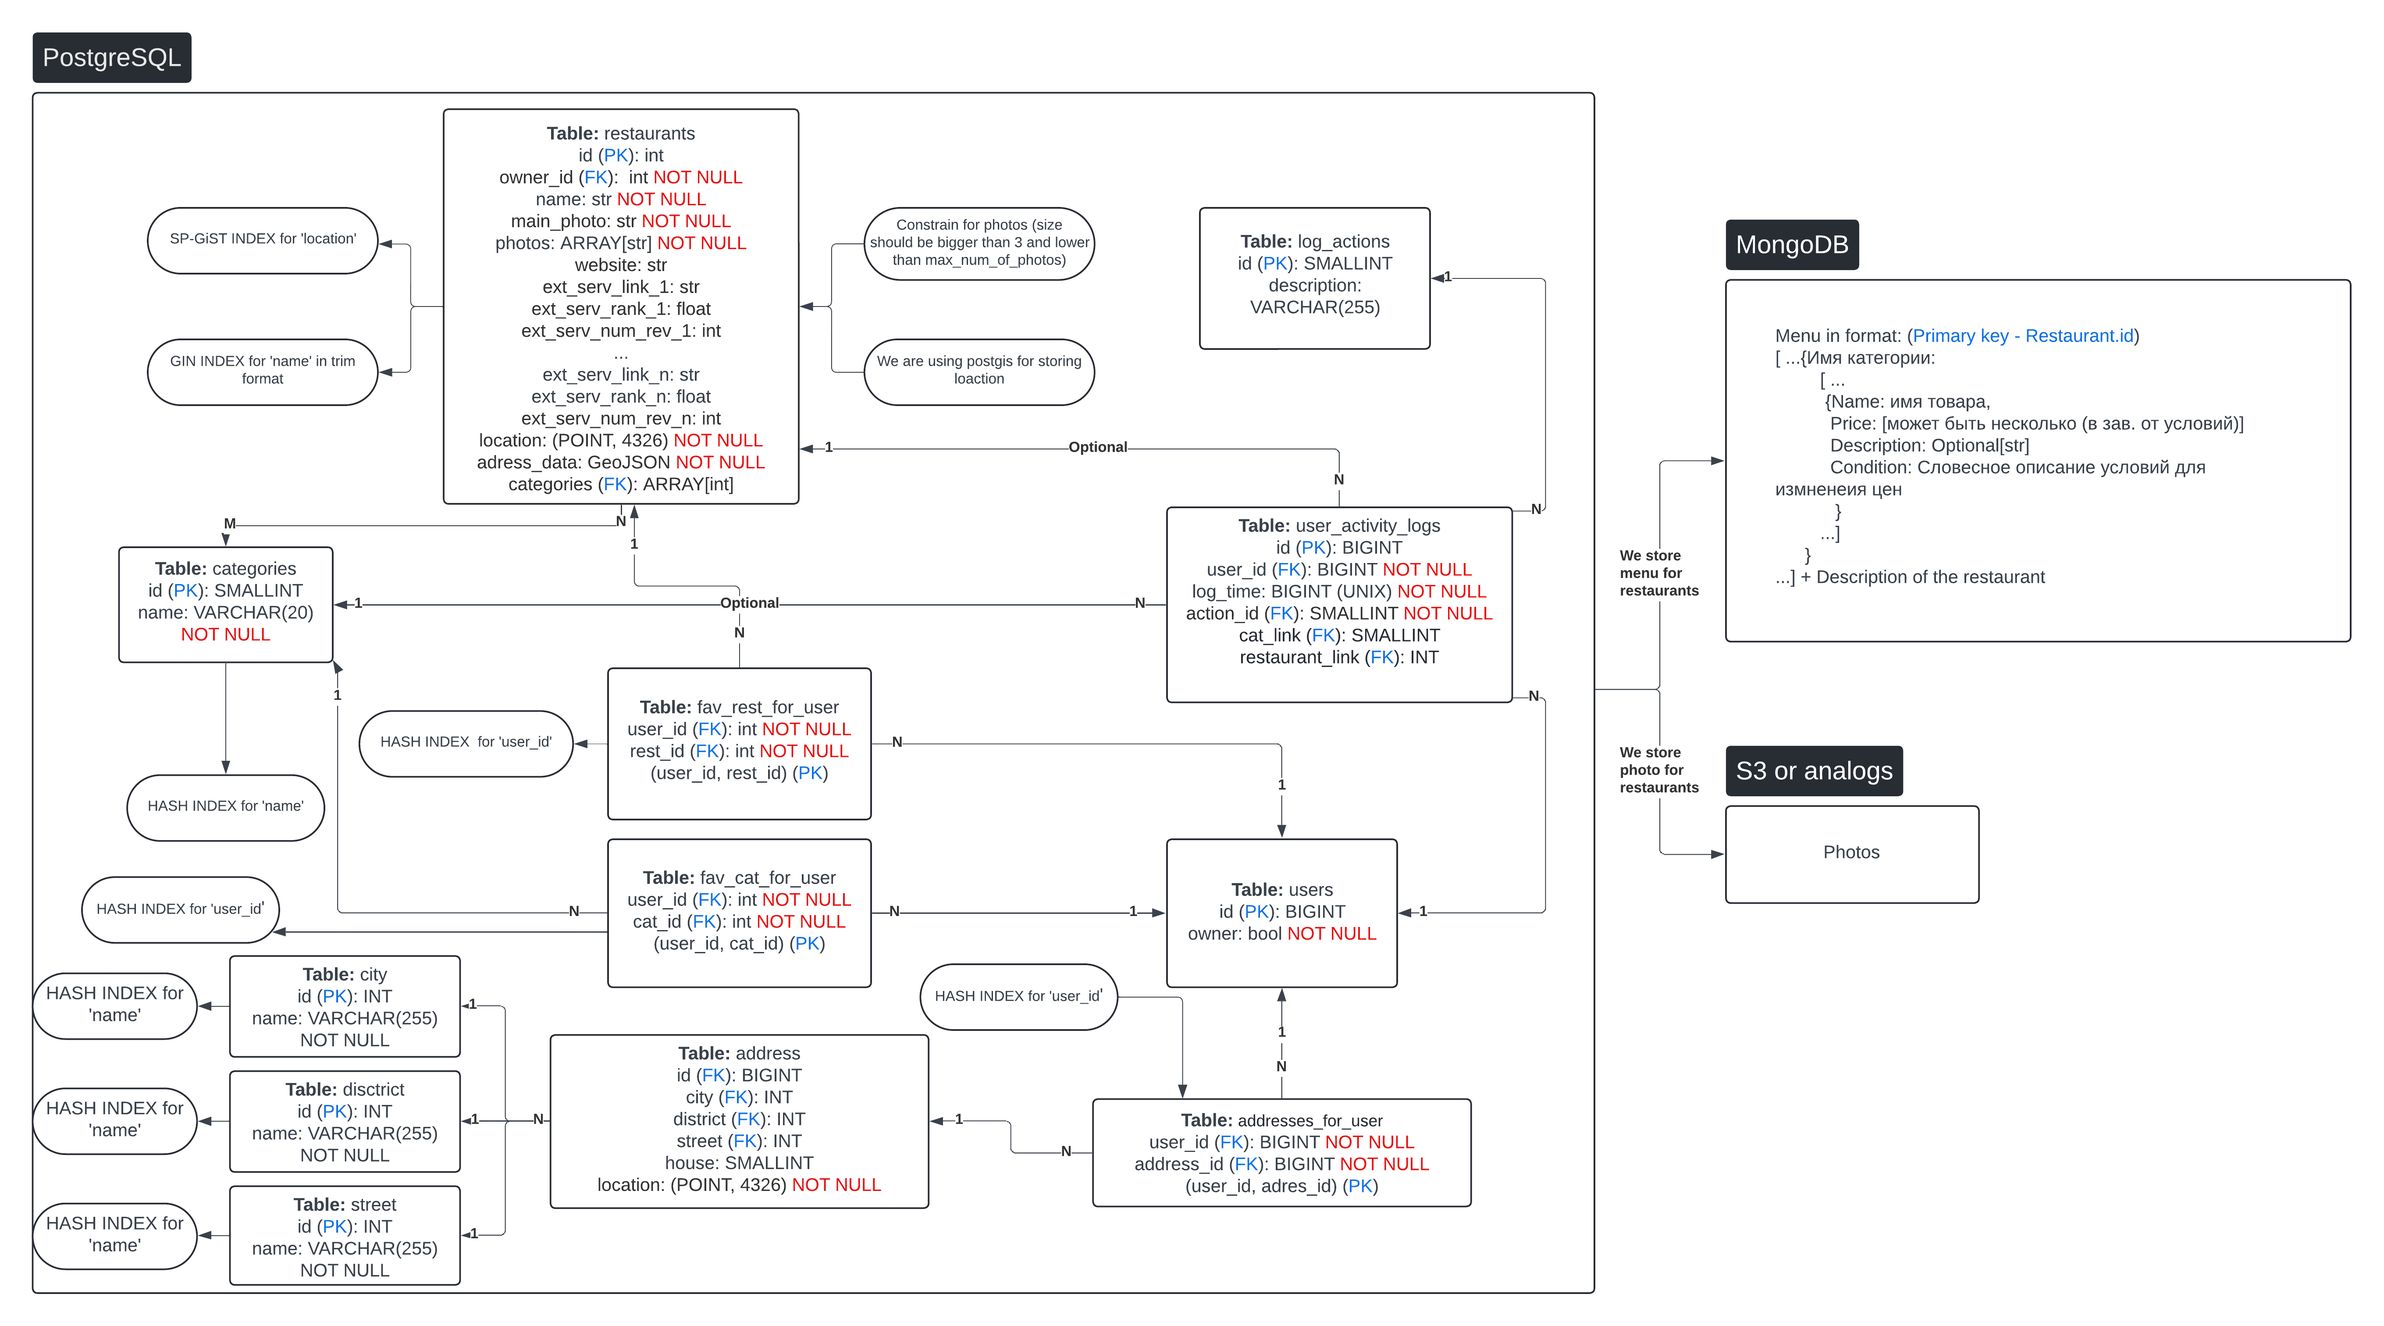
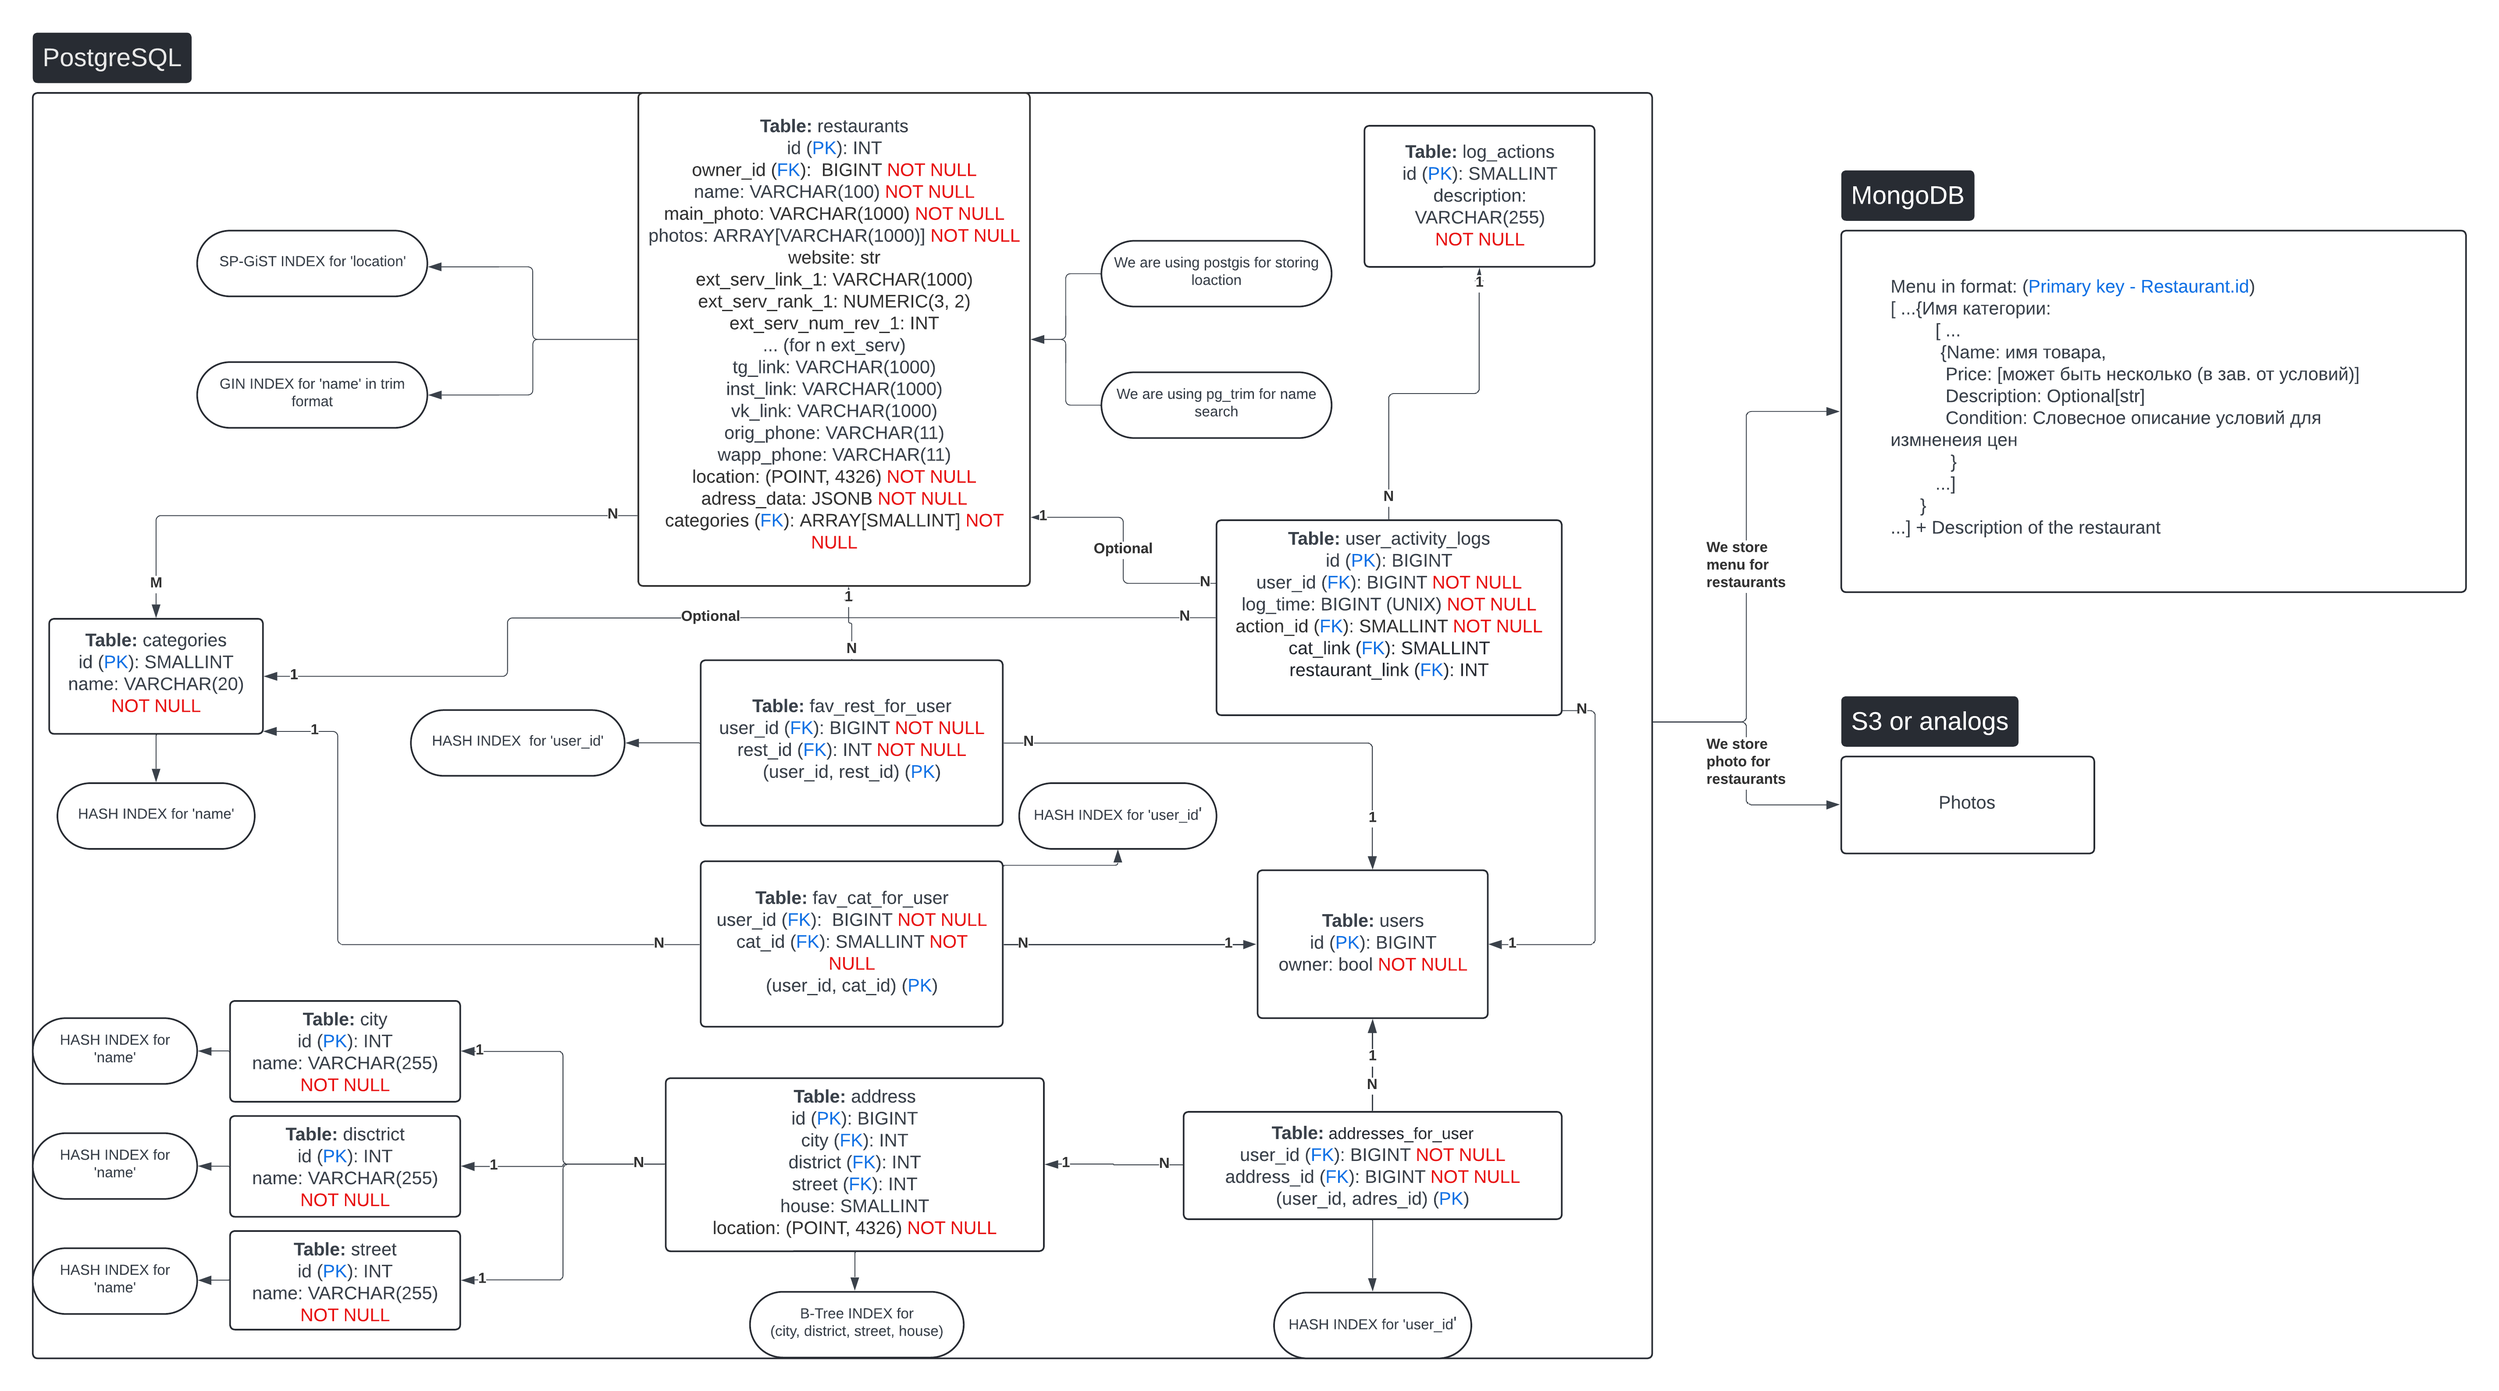
Добавил доку для бд и поправил осн, улучшил безопас бд

diff --git a/databases/PostgreSQL/README.md b/databases/PostgreSQL/README.md
@@ -1,0 +1,58 @@
+# База данных PostgreSQL 
+
+## Используемые расширения 
+- pg_trim для удобного и быстрого поиска наиболее похожего названия ресторана 
+- postgis для работы с географическими данными  
+## Принцип работы (key moments for backend)
+1) Все id кроме пользоавательского генерируются автоматически с помощью SMALLSERIAL, SERIAL и BIGSERIAL - указывать их при вставке не нужно
+2) Номера телефонов в таблице restaurants хранятся в виде строки из 11 символов и начинаются с 7, введена проверка на это условие для стнадартизации формата хранения 
+3) В таблице user автоматически присваивается default значение для owner - false 
+4) При вставке/изменении в restaurants не нужно вность location, он автоматически распакуется и добавится из GEOJson из address. 
+Также будет проведена проверка формата переданного GEOJson. Это позволит улучшить согласованность данных и защитит от 
+возможных ошибок в будущем 
+5) Кол-во фото для одного ресторана, которые будут показаны на странице от 3 до 8 включительно
+6) В случае если одно из полей адреса пустое - оно устанавливается не в NULL, а с ссылкой на id поля, 
+отвечающего за пустую строку. Например, если у нас нет данных о районе то 
+```PostgreSQL
+address.district = (SELECT id FROM district WHERE name='')
+-- Такой элемент гарантироавнно будет существовать в единственном экземпляре 
+```
+7) В address может возникнуть ситуация, что при пустом district при одинаковых city street и house будут разные location. 
+Это необходимо учитывать при добавлении ссылки в таблицу addresses_for_user. Ппри нахождении нескольких id 
+с одинаковыми парметрами city, street, house и пустым district необходимо сверить еще и локацию.
+Для быстрого поиска и вставки id в таблицу addresses_for_user строится B-TREE индекс на наборе  
+(city, district, street, house)
+## Пользоавтели 
+
+### reader 
+Имеет право только на чтение внутри базы данных, не имееет права на изменение данных и структуры базы данных. 
+Роль предназначена для аналитиков и других пользователей БД, от действий которых нужно защитить базу данных 
+
+### backend
+Роль предназначена для взаимодействия backend с базой данных. Дает доступ к чтению практически всех таблиц
+и к изменению содержания всех необходимых для backend таблиц.
+
+### logger 
+Роль для логгера - его основная функция писать в таблицу user_activity_logs, ему предоставлены права на чтение 
+связанных таблиц и на INSERT в user_activity_logs
+
+### clearing_trigger 
+Данная роль предназначена для микросервиса, который будет запускать операцию очистки таблицы address от повторяющихся значений 
+
+**NOTE: Использоавние ролей позволяет защитить базу данных от ошибок при разработке других частей продукта и от 
+нежелательного воздействия. Ни одна из ролей не имеет права создавать новые схемы, менять структуру схемы public, а 
+также доступ к изменению таблиц categories и log_actions определяющих систему ограничен для всех ролей**
+
+## Триггеры
+1) Триггер на добавление категории в массив вторичных ключей categories в restaurants 
+2) Триггер на удаление категории, для поиска ссылок на нее в restaurants в столбце categories
+3) Триггер на обновление категории, для поиска ссылок на нее в restaurants в столбце categories
+4) Триггер на добавление location при вставке/обновлении в restaurants
+
+## Хранимые процедуры
+В БД хранится лишь одна процедура - update_empty_districts
+
+Она будет вызываться раз в некоторое время для "мерджа" записей с одинковыми city, street, house и location 
+(i.e обозначающих один адрес) среди который у одной из записей отсутвует district, а у другой - присутствует. 
+Выполнение данной процедуры необходимо из-за особенностей используемого на backend-е API, которое может вернуть 
+адрес как с district так и без для одной и той же локации. Благодаря ней будет достигаться уникальность хранимых данных 

diff --git a/README.md b/README.md
@@ -1,7 +1,6 @@
 # Тема нашего проекта - Агрегатор ресторанов
 
-Мы разрабатываем мини-приложение ТГ для удобной агрегации ресторанов рядом с пользователем.
-Также будет реализован бот для внесения новых ресторанов в нашу систему.
+Мы разрабатываем мини-приложение ТГ для удобной агрегации ресторанов рядом с пользователем. Весь интерфейс будет завязан на телеграм боте
 
 ## Функционал
 
@@ -12,7 +11,7 @@
 4. Система рекомендаций от бота
 
 ### Для фирм:
-1. Добавить/удалить/редактировать свой ресторан через специального бота 
+1. Добавить/удалить/редактировать свой ресторан через бота 
 2. Возможность 'наследования' свойств ресторанов для быстрого добавления новых заведений 
 3. Coming soon: Эффективное продвижение для бизнеса за счет отслеживания поведения пользоавтелей 
 
@@ -87,13 +86,18 @@ Same...
    - python FastAPI (для создания API)
    - SQLAlchemy (для данных пользователей)
    - Celery (фоновые задачи)
-   - Kafka (для распределения нагрузки на БД и бэк при записи польз. логов)
+   - Redis (для распределения нагрузки на БД и бэк при записи польз. логов)
    - aiobotocor (асинхронная S3 для изображений)
-   - MongoDB (для меню ресторанов)
 
-3. Контейнеризация через Docker
-4. python-telegram-bot для телеграм-ботов
-5. Api Яндекс карт для работы с географическими данными 
+3. Базы данных:
+   - PostgreSQL (Основная БД)
+   - MongoDB (для меню ресторанов и их описания)
+
+   **Внутри PostgreSQL будем использоавть pg_trim для быстрого поиска по похожим назавниям и postgis для быстрого поиска по ближайшим ресторанам**
+
+4. Контейнеризация через Docker
+5. python-telegram-bot для телеграм-бота
+6. Api Яндекс карт для работы с географическими данными 
 
 ### Что там по архитектуре
 
@@ -117,7 +121,6 @@ Same...
 Связывать это все будет NGINX, который мы тоже поднимем как отдельный контейнер.
 
 ### Схема бд
-Будет модифицирована и доработана в течение пары дней :) 
 ![](photos/db_schema.png)
 
 
